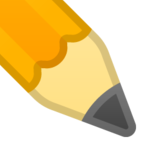
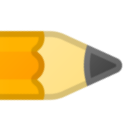
improve demo ui

diff --git a/demo.html b/demo.html
@@ -206,18 +206,18 @@ input[type=range]::-ms-track {
 /* Special styling for WebKit/Blink */
 input[type=range]::-webkit-slider-thumb {
   -webkit-appearance: none;
-  height: 14px;
-  width: 14px;
+  height: 16px;
+  width: 16px;
   border-radius: 50%;
   background: steelblue;
   cursor: pointer;
-  margin-top: -6px; /* You need to specify a margin in Chrome, but in Firefox and IE it is automatic */
+  margin-top: -7px; /* You need to specify a margin in Chrome, but in Firefox and IE it is automatic */
 }
 
 /* All the same stuff for Firefox */
 input[type=range]::-moz-range-thumb {
-  height: 14px;
-  width: 14px;
+  height: 16px;
+  width: 16px;
   border-radius: 50%;
   background: steelblue;
   cursor: pointer;
@@ -226,8 +226,8 @@ input[type=range]::-moz-range-thumb {
 
 /* All the same stuff for IE */
 input[type=range]::-ms-thumb {
-  height: 14px;
-  width: 14px;
+  height: 16px;
+  width: 16px;
   border-radius: 50%;
   background: grey;
   cursor: pointer;
@@ -302,7 +302,7 @@ input[type="radio"] {
 #eraser {
   height: 50px;
   width: 50px;
-  background-image: linear-gradient(to bottom right, rgba(0, 0, 0, 0), rgba(0, 0, 0, 0), rgb(255, 255, 255)), url(eraser.png);
+  background-image: linear-gradient(to right, rgba(0, 0, 0, 0), rgba(0, 0, 0, 0), rgb(255, 255, 255)), url(eraser.png);
   display: inline-block;
   background-repeat: no-repeat;
   background-size: contain;
@@ -311,7 +311,7 @@ input[type="radio"] {
 #pencil {
   height: 50px;
   width: 50px;
-  background-image: linear-gradient(to top left, rgba(0, 0, 0, 0), rgba(0, 0, 0, 0), rgb(255, 255, 255)), url(pencil.png);
+  background-image: linear-gradient(to left, rgba(0, 0, 0, 0), rgba(0, 0, 0, 0), rgb(255, 255, 255)), url(pencil.png);
   display: inline-block;
   background-repeat: no-repeat;
   background-size: contain;
@@ -365,18 +365,18 @@ input[type="radio"] {
         </div>
         <div class="slidecontainer">
           Brush size:
-          <input type="range" min="1" max="10" value="4" class="slider" id="brushSlider">
+          <input type="range" min="5" max="10" value="4" class="slider" id="brushSlider">
           <div id="status">(<span id='radius'>2.5</span> px)</div>
         </div>
         <div id="colorwheelicon" style="text-align: center">
           <img id="pointer" src="images/colorwheel.svg">
         </div>
         <div class="slidecontainer">
-          Color-palette (article-wide):
+          Palette:
           <input type="range" min="0" max="360" value="0" class="slider" id="hueSlider">
           <div id="status">(<span id='hueValue'>0</span> deg)</div>
         </div>
-        <div id="paletteHint">This article relies on using color to demonstrate classifications. If you have trouble distinguishing the colours of digits in the above legend, please try and adjust the slider above to see if there is an alternative colour palette for you. The chosen palette will propagate throughout the article.</div>
+        <div id="paletteHint">This article relies on using color to demonstrate classification label. If you have trouble distinguishing the colours of digits in the above legend, please try and adjust the slider above to see if there is an alternative colour palette for you. The chosen palette will propagate throughout the article.</div>
         <div id="colab-hero-div">
           <a href="https://colab.research.google.com/github/google-research/self-organising-systems/blob/master/notebooks/mnist_ca.ipynb" class="colab-root" id="colab-hero">Try in a <span class="colab-span">Notebook</span></a>
         </div>

diff --git a/public/index.html b/public/index.html
@@ -444,18 +444,18 @@ input[type=range]::-ms-track {
 /* Special styling for WebKit/Blink */
 input[type=range]::-webkit-slider-thumb {
   -webkit-appearance: none;
-  height: 14px;
-  width: 14px;
+  height: 16px;
+  width: 16px;
   border-radius: 50%;
   background: steelblue;
   cursor: pointer;
-  margin-top: -6px; /* You need to specify a margin in Chrome, but in Firefox and IE it is automatic */
+  margin-top: -7px; /* You need to specify a margin in Chrome, but in Firefox and IE it is automatic */
 }
 
 /* All the same stuff for Firefox */
 input[type=range]::-moz-range-thumb {
-  height: 14px;
-  width: 14px;
+  height: 16px;
+  width: 16px;
   border-radius: 50%;
   background: steelblue;
   cursor: pointer;
@@ -464,8 +464,8 @@ input[type=range]::-moz-range-thumb {
 
 /* All the same stuff for IE */
 input[type=range]::-ms-thumb {
-  height: 14px;
-  width: 14px;
+  height: 16px;
+  width: 16px;
   border-radius: 50%;
   background: grey;
   cursor: pointer;
@@ -540,7 +540,7 @@ input[type="radio"] {
 #eraser {
   height: 50px;
   width: 50px;
-  background-image: linear-gradient(to bottom right, rgba(0, 0, 0, 0), rgba(0, 0, 0, 0), rgb(255, 255, 255)), url(eraser.png);
+  background-image: linear-gradient(to right, rgba(0, 0, 0, 0), rgba(0, 0, 0, 0), rgb(255, 255, 255)), url(eraser.png);
   display: inline-block;
   background-repeat: no-repeat;
   background-size: contain;
@@ -549,7 +549,7 @@ input[type="radio"] {
 #pencil {
   height: 50px;
   width: 50px;
-  background-image: linear-gradient(to top left, rgba(0, 0, 0, 0), rgba(0, 0, 0, 0), rgb(255, 255, 255)), url(pencil.png);
+  background-image: linear-gradient(to left, rgba(0, 0, 0, 0), rgba(0, 0, 0, 0), rgb(255, 255, 255)), url(pencil.png);
   display: inline-block;
   background-repeat: no-repeat;
   background-size: contain;
@@ -603,18 +603,18 @@ input[type="radio"] {
         </div>
         <div class="slidecontainer">
           Brush size:
-          <input type="range" min="1" max="10" value="4" class="slider" id="brushSlider">
+          <input type="range" min="5" max="10" value="4" class="slider" id="brushSlider">
           <div id="status">(<span id='radius'>2.5</span> px)</div>
         </div>
         <div id="colorwheelicon" style="text-align: center">
           <img id="pointer" src="images/colorwheel.svg">
         </div>
         <div class="slidecontainer">
-          Color-palette (article-wide):
+          Palette:
           <input type="range" min="0" max="360" value="0" class="slider" id="hueSlider">
           <div id="status">(<span id='hueValue'>0</span> deg)</div>
         </div>
-        <div id="paletteHint">This article relies on using color to demonstrate classifications. If you have trouble distinguishing the colours of digits in the above legend, please try and adjust the slider above to see if there is an alternative colour palette for you. The chosen palette will propagate throughout the article.</div>
+        <div id="paletteHint">This article relies on using color to demonstrate classification label. If you have trouble distinguishing the colours of digits in the above legend, please try and adjust the slider above to see if there is an alternative colour palette for you. The chosen palette will propagate throughout the article.</div>
         <div id="colab-hero-div">
           <a href="https://colab.research.google.com/github/google-research/self-organising-systems/blob/master/notebooks/mnist_ca.ipynb" class="colab-root" id="colab-hero">Try in a <span class="colab-span">Notebook</span></a>
         </div>

diff --git a/public/demo.js b/public/demo.js
@@ -138,8 +138,13 @@ export function mnistDemo(divId, canvasId) {
       paused = !paused;
       updateUI();
     };
-    $('#eraser-pencil').onclick = () => {
-      eraser = !eraser;
+    $('#eraser').onclick = () => {
+      eraser = true;
+      updateUI();
+    };
+
+    $('#pencil').onclick = () => {
+      eraser = false;
       updateUI();
     };
 
@@ -166,10 +171,10 @@ export function mnistDemo(divId, canvasId) {
     // });
     $('#play').style.display = paused ? "inline" : "none";
     $('#pause').style.display = !paused ? "inline" : "none";
-    $('#eraser').style.filter = !eraser ? "grayscale()" : "";
-    $('#pencil').style.filter = eraser ? "grayscale()" : "";
+    $('#eraser').style.filter = !eraser ? "grayscale() opacity(0.7)" : "";
+    $('#pencil').style.filter = eraser ? "grayscale() opacity(0.7)" : "";
     const speed = parseInt($('#speed').value);
-    $('#speedLabel').innerHTML = ['1/60 x', '1/10 x', '1/2 x', '1x', '2x', '4x', '<b>max</b>'][speed + 3];
+    $('#speedLabel').innerHTML = ['1/60 x', '1/10 x', '1/2 x', '1 x', '2 x', '4 x', '<b>max</b>'][speed + 3];
   };
 
   const parseConsts = model_graph => {
